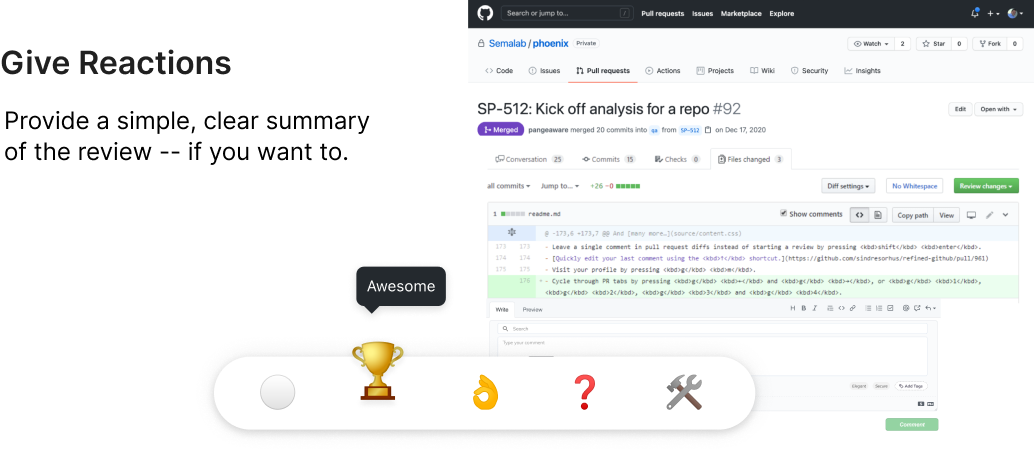
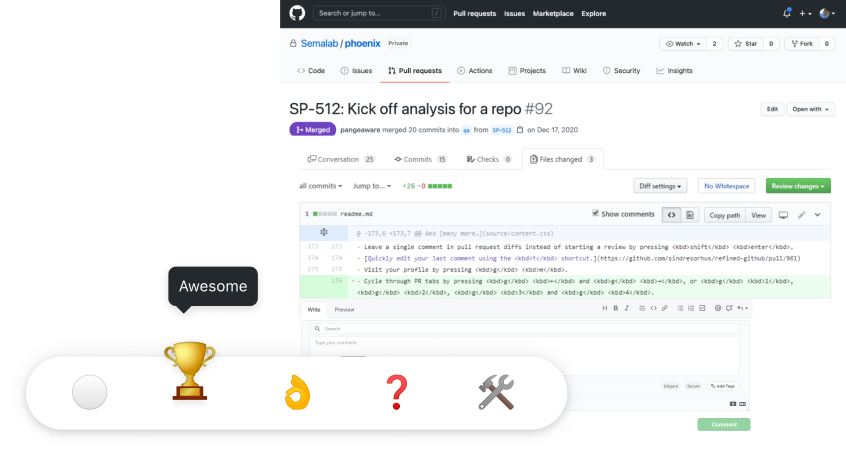
feat: updated assets for reaction tab

diff --git a/web/src/components/utils/Carousel/index.js b/web/src/components/utils/Carousel/index.js
@@ -8,17 +8,17 @@ const Carousel = () => {
 
   const renderImage = () => {
     switch (current) {
-    case 0:
-      return <img src={carouselData[current]} alt="how-to-use" />;
-    case 1:
-      return <Tags />;
-    case 2:
-      return <SuggestedComments />;
-    case 3:
-      return <DeveloperInsights />;
-    case 4:
-      return <SocialGraph />;
-    default:
+      case 0:
+        return <Reactions />;
+      case 1:
+        return <Tags />;
+      case 2:
+        return <SuggestedComments />;
+      case 3:
+        return <DeveloperInsights />;
+      case 4:
+        return <SocialGraph />;
+      default:
     }
   };
 
@@ -67,12 +67,27 @@ const TileAncestor = ({ children }) => (
   </>
 );
 
+const Reactions = () => (
+  <>
+    <TileAncestor>
+      <div className="tile is-1" />
+      <div className="tile is-4 is-parent is-vertical mt-70 pl-70">
+        <p className="title">Reactions</p>
+        <p className="subtitle">Provide a simple, clear summary of the review -- if you want to.</p>
+      </div>
+      <div className="tile is-7">
+        <img src={carouselData[0]} alt="reactions" className="" />
+      </div>
+    </TileAncestor>
+  </>
+);
+
 const Tags = () => (
   <>
     <TileAncestor>
       <div className="tile is-1" />
       <div className="tile is-7">
-        <img src={carouselData[1]} alt="how-to-use" className="" />
+        <img src={carouselData[1]} alt="tags" className="" />
       </div>
       <div className="tile is-4 is-parent is-vertical mt-70">
         <p className="title">Add Tags</p>
@@ -91,7 +106,7 @@ const SuggestedComments = () => (
         <p className="subtitle">Use pre-written comments from some of the world’s best sources of coding knowledge -- to save time and improve clarity. </p>
       </div>
       <div className="tile is-6">
-        <img src={carouselData[2]} alt="how-to-use" className="" />
+        <img src={carouselData[2]} alt="suggested-comments" className="" />
       </div>
     </TileAncestor>
   </>
@@ -102,7 +117,7 @@ const DeveloperInsights = () => (
     <TileAncestor>
       <div className="tile is-1" />
       <div className="tile is-6">
-        <img src={carouselData[3]} alt="how-to-use" className="" />
+        <img src={carouselData[3]} alt="developer-insights" className="" />
       </div>
       <div className="tile is-4 is-parent is-vertical mt-50">
         <p className="title">Developer Insights</p>
@@ -121,7 +136,7 @@ const SocialGraph = () => (
         <p className="subtitle">The Sema Review Graph drives skill discovery, continuous professional development, and greater social cohesion.</p>
       </div>
       <div className="tile is-7">
-        <img src={carouselData[4]} alt="how-to-use" className="" />
+        <img src={carouselData[4]} alt="social-graph" className="" />
       </div>
     </TileAncestor>
   </>
